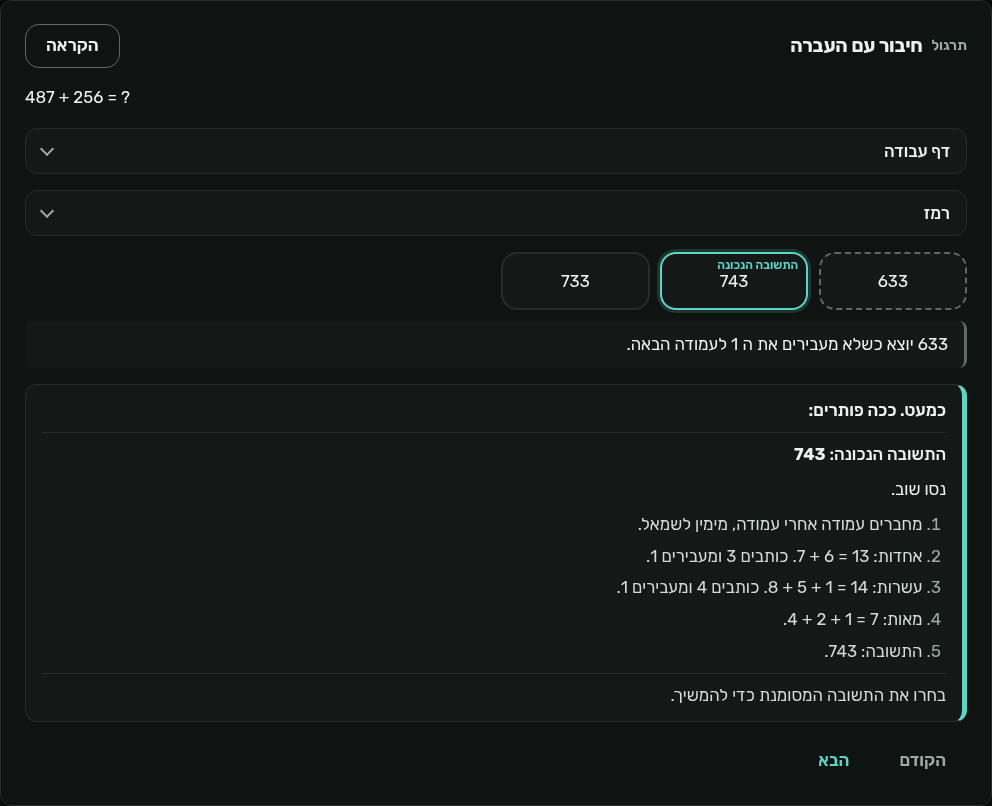
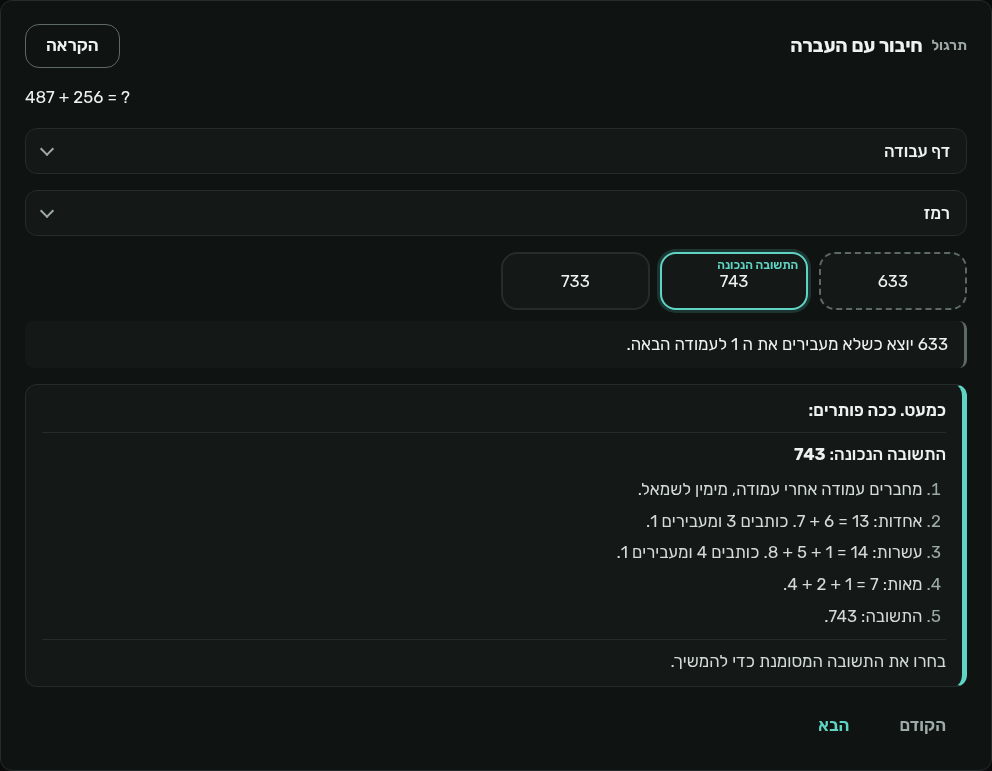
UI: hide generic feedback_try when the full solution is shown (review on #244, issue 215) (#246)

diff --git a/packages/core/src/myroad_core/ui/templates/_step_card.html b/packages/core/src/myroad_core/ui/templates/_step_card.html
@@ -198,9 +198,7 @@
     <p class="feedback-line">{{ t('fb_wrong_lead') }}</p>
     <div class="solution">
       <p class="solution-answer">{{ t('fb_right_answer') }} {% for l in sol.labels %}<strong class="solution-pick" dir="auto"{{ sl.choice|content_lang(locale, l) }}>{{ l|bdi }}</strong>{% if not loop.last %}, {% endif %}{% endfor %}</p>
-      {%- if kids.feedback_try and answer.text == kids.feedback_try %}
-      <p class="solution-note"><span class="feedback-text" dir="auto"{% if fb_lang %} lang="{{ fb_lang }}"{% endif %}>{{ answer.text|bdi }}</span></p>
-      {%- endif %}
+      {#- The generic feedback_try is not shown here: the solution is the one instruction (decision 0016). -#}
       {%- if sol.method %}
       {#- One line per step, each isolated on its own so math keeps LTR order inside RTL text. -#}
       {%- set lines = sol.method.split('\n')|map('trim')|select|list %}

diff --git a/packages/core/tests/test_step_player.py b/packages/core/tests/test_step_player.py
@@ -47,7 +47,8 @@ def _path() -> dict:
              "body_en": "Subtracting a negative number is adding."},
             {"id": "p1", "type": "practice", "title": "תרגול 1", "title_en": "Practice 1",
              "body_he": MATH_HE, "body_en": "What is 5 − (−3)?",
-             "choices": [{"id": "a", "label": "2"}, {"id": "b", "label": "8"}, {"id": "c", "label": "−8"}],
+             "choices": [{"id": "a", "label": "2", "feedback": "התוצאה הזו יוצאת כשמחסרים במקום להוסיף."},
+                         {"id": "b", "label": "8"}, {"id": "c", "label": "−8"}],
              "correct": "b",
              "feedback_ok": "נכון! 5 − (−3) = 8.",
              "feedback_try": "מינוס של מינוס הוא פלוס: 5 + 3."},
@@ -121,12 +122,14 @@ def test_hx_wrong_answer_returns_only_the_step_card_with_feedback_under_choices(
     fb = card[i_fb - 200:i_nav]
     assert 'role="status"' in fb and 'aria-live="polite"' in fb and 'tabindex="-1"' in fb
     assert "step-feedback try" in fb
-    assert "מינוס של מינוס הוא פלוס" in fb  # the content's feedback_try explains the wrong pick
+    # The full solution replaces the generic feedback_try (decision 0016); the picked choice keeps its own note.
+    assert "מינוס של מינוס הוא פלוס" not in card
+    assert "התוצאה הזו יוצאת כשמחסרים במקום להוסיף." in card
     # A miss shows the calm lead, the right answer and one next step (issue 215).
     assert "כמעט. ככה פותרים:" in fb and "התשובה הנכונה:" in fb and "בחרו את התשובה המסומנת כדי להמשיך." in fb
     # The tapped tile is marked (shape + text, not color alone) and points at the feedback.
     picked = re.search(r'<button[^>]*value="a"[^>]*>', card).group(0)
-    assert "is-wrong" in picked and 'aria-describedby="step-feedback"' in picked
+    assert "is-wrong" in picked and 'aria-describedby="choice-feedback step-feedback"' in picked
     assert "disabled" not in picked  # the learner can pick again
     # Focus moves to the feedback after the swap; the progress block comes out-of-band.
     assert 'data-swap-focus="step-feedback"' in card
@@ -193,7 +196,7 @@ def test_no_js_wrong_answer_redirects_and_shows_feedback_under_choices_once(app)
     assert '<form method="post" action="/play/%s/answer"' % PID in page.text  # real post target
     card = _card(page.text)
     assert card.index("</form>") < card.index('id="step-feedback"') < card.index('class="nav row')
-    assert "מינוס של מינוס הוא פלוס" in card
+    assert "מינוס של מינוס הוא פלוס" not in card and "התשובה הנכונה:" in card
     assert "is-wrong" in re.search(r'<button[^>]*value="c"[^>]*>', card).group(0)
     assert "data-swap-focus" not in page.text  # only htmx swaps move focus
     assert 'class="flash warn"' not in page.text  # no page-top duplicate
@@ -364,19 +367,20 @@ def test_en_ui_marks_hebrew_feedback_fallback_with_lang_and_dir_auto(app) -> Non
     card = _card(c.post(f"/play/{PID}/answer", data={"choice": "a"}, headers=HX).text)
     region = re.search(r'<div id="step-feedback"[^>]*>', card).group(0)
     assert 'dir="auto"' in region and 'role="status"' in region
-    text = re.search(r'<span class="feedback-text"[^>]*>', card).group(0)
-    assert text == '<span class="feedback-text" dir="auto" lang="he">'
+    note = re.search(r'<p id="choice-feedback"[^>]*>', card).group(0)
+    assert 'dir="auto"' in note and 'lang="he"' in note  # Hebrew choice note marked in the en UI
     assert "Not quite." in card and "Pick the marked answer to continue." in card  # chrome stays in the UI locale
     # The no-JS page renders the same region.
     c.post(f"/play/{PID}/answer", data={"choice": "c"}, follow_redirects=False)
     page = c.get(f"/play/{PID}?view=learn").text
-    assert '<span class="feedback-text" dir="auto" lang="he">' in page
+    assert "The right answer:" in page and "מינוס של מינוס" not in page
 
 
 def test_he_ui_feedback_needs_no_lang_override(app) -> None:
     c = _at_practice(app, "he")
     card = _card(c.post(f"/play/{PID}/answer", data={"choice": "a"}, headers=HX).text)
-    assert '<span class="feedback-text" dir="auto">' in card and 'lang="he"' not in card
+    fb = card.split('id="step-feedback"', 1)[1].split('class="nav row', 1)[0]
+    assert "כמעט. ככה פותרים:" in fb and 'lang="he"' not in fb.split('class="solution"', 1)[0]
 
 
 def test_en_ui_flash_fallback_carries_lang_only_for_content_feedback(app) -> None:

diff --git a/packages/core/tests/test_full_solution_session_end.py b/packages/core/tests/test_full_solution_session_end.py
@@ -32,8 +32,8 @@ def _path() -> dict:
         node = {"id": f"p{i}", "type": "practice", "title": f"כלל {i}", "can_do": f"לחבר {i} ועוד 1",
                 "body_he": f"{i} + 1 = ?",
                 "choices": [{"id": "a", "label": str(i + 1), "feedback": f"{i} ועוד 1 הוא {i + 1}."},
-                            {"id": "b", "label": "0"}],
-                "correct": "a"}
+                            {"id": "b", "label": "0", "feedback": "אפס יוצא כששוכחים לחבר."}],
+                "correct": "a", "feedback_try": "נסו שוב."}
         if i == 1:
             node["worked_method"] = METHOD
         nodes.append(node)
@@ -79,6 +79,8 @@ def test_wrong_answer_shows_right_answer_full_solution_and_one_next_step(client)
     assert "התשובה הנכונה:" in txt and "2" in fb.split("התשובה הנכונה:", 1)[1][:200]
     assert "אחדות" in txt and "ומעבירים" in txt  # the worked method, open, in the live region
     assert "בחרו את התשובה המסומנת כדי להמשיך." in txt
+    assert "נסו שוב" not in _text(card)  # generic feedback_try gives way to the one instruction
+    assert 'id="choice-feedback"' in card and "אפס יוצא כששוכחים לחבר." in card  # picked tile keeps its own note
     assert "✗" not in card  # no red cross as the dominant signal
     # The right tile is marked as the next tap (text, not colour only) and stays enabled.
     right = re.search(r'<button[^>]*value="a"[^>]*>.*?</button>', card, re.S).group(0)

diff --git a/packages/core/tests/test_content_fallback.py b/packages/core/tests/test_content_fallback.py
@@ -141,8 +141,10 @@ def test_he_only_path_falls_back_to_hebrew_marked_lang_he(app, locale) -> None:
     assert 'lang="he"' in _attrs(play, "שלם אחד")
     assert 'lang="he"' not in _attrs(play, "2</")  # numeric choice: no language to switch to
     after = c.post(f"/play/{HE_ONLY}/answer", data={"choice": "b"}, headers={"HX-Request": "true"}).text
-    fb = _attrs(after, "נסו שוב")
-    assert 'dir="auto"' in fb and 'lang="he"' in fb
+    assert "נסו שוב" not in after  # the full solution replaces the generic feedback_try (decision 0016)
+    sol = after.split('class="solution"', 1)[1]
+    fb = _attrs(sol, "שלם אחד")  # the Hebrew right answer inside the solution keeps lang="he"
+    assert 'lang="he"' in fb
 
     locked = c.get(f"/play/{HE_LOCKED}").text
     tag = _attrs(locked, "שברים למבוגרים</bdi>")

diff --git a/packages/core/tests/test_content.py b/packages/core/tests/test_content.py
@@ -226,7 +226,7 @@ def test_play_math_path_mouse_flow(platform_client: TestClient) -> None:
         follow_redirects=True,
     )
     assert wrong.status_code == 200
-    assert "נסו שוב" in wrong.text or "לא בדיוק" in wrong.text or "flash" in wrong.text
+    assert 'class="solution"' in wrong.text and "is-solution" in wrong.text  # full solution, issue 215
 
     right = platform_client.post(
         "/play/path_grade3_math_add20/answer",
